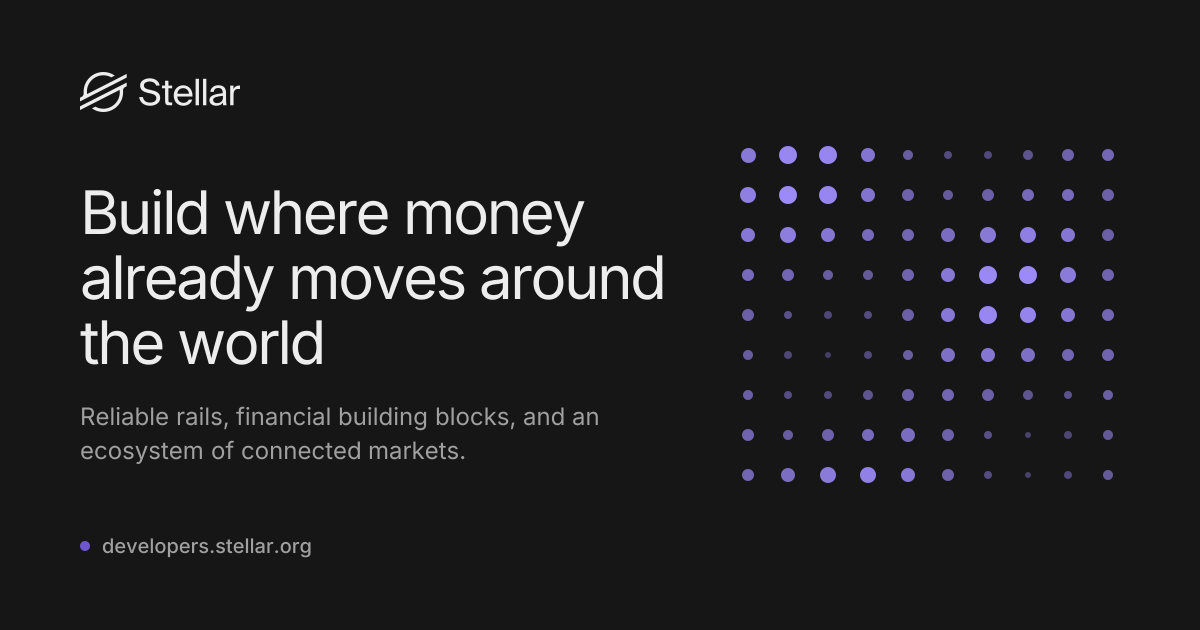
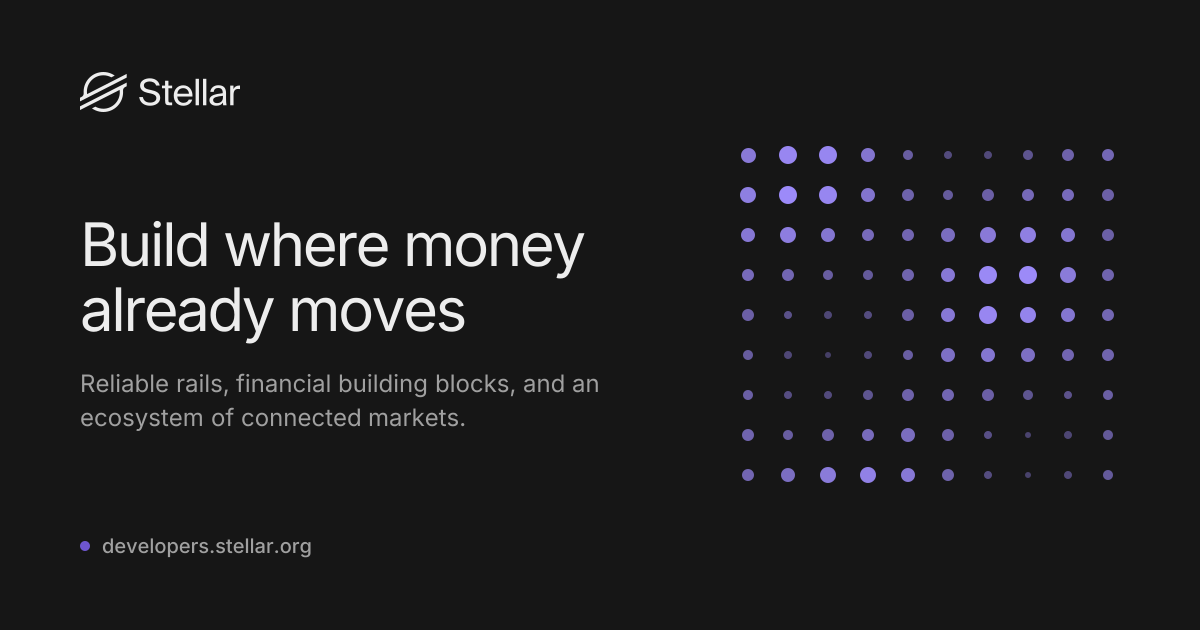
Hero: shorten slogan to "Build where money already moves" (#28)
Trim "around the world" from the hero headline, the OG/Twitter alt
text and social descriptions, and regenerate the OG card image so the
share preview matches.

Changed region(s): [[0.0617, 0.3016, 0.555, 0.754]]

diff --git a/src/app/layout.tsx b/src/app/layout.tsx
@@ -15,8 +15,8 @@ export const metadata: Metadata = {
   metadataBase: new URL("https://developers.stellar.org"),
   // Social card: public/brand/og-card.png (1200 × 630). It lives under /brand because Cloudflare only routes /, /_next, /brand,
   // /partners and the icons to Netlify; a Next opengraph-image route would 404 on developers.stellar.org.
-  openGraph: { type: "website", url: "https://developers.stellar.org/", siteName: "Stellar Developers", title: "Stellar Developers", images: [{ url: "/brand/og-card.png", width: 1200, height: 630, alt: "Stellar Developers: build where money already moves around the world" }], description: "Build where money already moves around the world. Reliable rails, financial building blocks, and an ecosystem of connected markets." },
-  twitter: { card: "summary_large_image", site: "@BuildOnStellar", images: ["/brand/og-card.png"], title: "Stellar Developers", description: "Build where money already moves around the world. Reliable rails, financial building blocks, and an ecosystem of connected markets." },
+  openGraph: { type: "website", url: "https://developers.stellar.org/", siteName: "Stellar Developers", title: "Stellar Developers", images: [{ url: "/brand/og-card.png", width: 1200, height: 630, alt: "Stellar Developers: build where money already moves" }], description: "Build where money already moves. Reliable rails, financial building blocks, and an ecosystem of connected markets." },
+  twitter: { card: "summary_large_image", site: "@BuildOnStellar", images: ["/brand/og-card.png"], title: "Stellar Developers", description: "Build where money already moves. Reliable rails, financial building blocks, and an ecosystem of connected markets." },
 };
 
 // GA4 property "developers.Stellar.org" (same as the docs and the USDT0 page). Set NEXT_PUBLIC_GA_ID="" to disable.

diff --git a/scripts/og-card.tsx b/scripts/og-card.tsx
@@ -7,7 +7,7 @@ import path from "node:path";
 // Social card (1200 × 630) built from the page's own ingredients: Stellar logo, hero headline,
 // lilac dot grid on gray-01. Pre-rendered at build (static export) and served at /opengraph-image.
 export const dynamic = "force-static";
-export const alt = "Stellar Developers: build where money already moves around the world";
+export const alt = "Stellar Developers: build where money already moves";
 export const size = { width: 1200, height: 630 };
 export const contentType = "image/png";
 
@@ -53,7 +53,7 @@ export default async function OpenGraphImage() {
         <div style={{ position: "absolute", left: 80, top: 72, bottom: 72, width: 640, display: "flex", flexDirection: "column", justifyContent: "space-between" }}>
           <img src={logo} width={160} height={40} alt="" />
           <div style={{ display: "flex", flexDirection: "column", gap: 24 }}>
-            <div style={{ fontSize: 60, lineHeight: 1.08, letterSpacing: -2.4, fontWeight: 400 }}>Build where money already moves around the world</div>
+            <div style={{ fontSize: 60, lineHeight: 1.08, letterSpacing: -2.4, fontWeight: 400 }}>Build where money already moves</div>
             <div style={{ fontSize: 24, lineHeight: 1.4, color: "#a0a0a0", fontWeight: 400 }}>Reliable rails, financial building blocks, and an ecosystem of connected markets.</div>
           </div>
           <div style={{ display: "flex", alignItems: "center", gap: 12, fontSize: 20, fontWeight: 500, color: "#a0a0a0" }}>

diff --git a/src/components/sections/Hero.tsx b/src/components/sections/Hero.tsx
@@ -17,7 +17,7 @@ export function Hero() {
     <section id="hero" aria-labelledby="hero-h1" className="hero">
       <div className="container-page hero__inner">
         <div className="hero__copy">
-          <h1 id="hero-h1" className="hero__h1">Build where money already moves around the world</h1>
+          <h1 id="hero-h1" className="hero__h1">Build where money already moves</h1>
           <p className="hero__lead">Reliable rails, financial building blocks, and an ecosystem of connected markets.</p>
           <dl className="hero__proof">
             {STATS.map((s) => (
